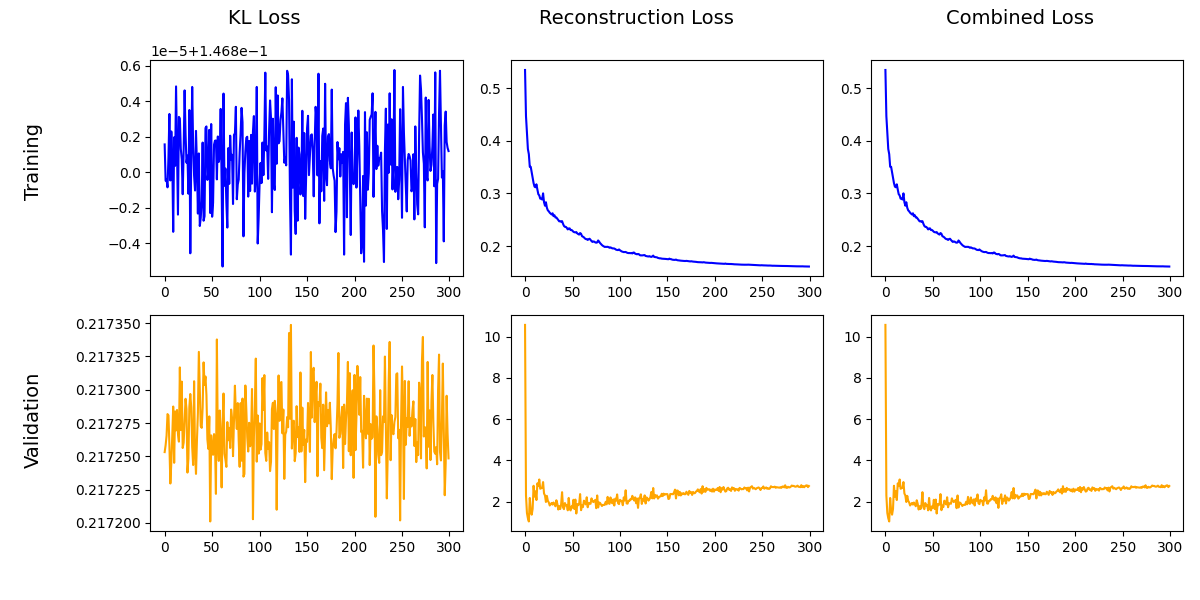
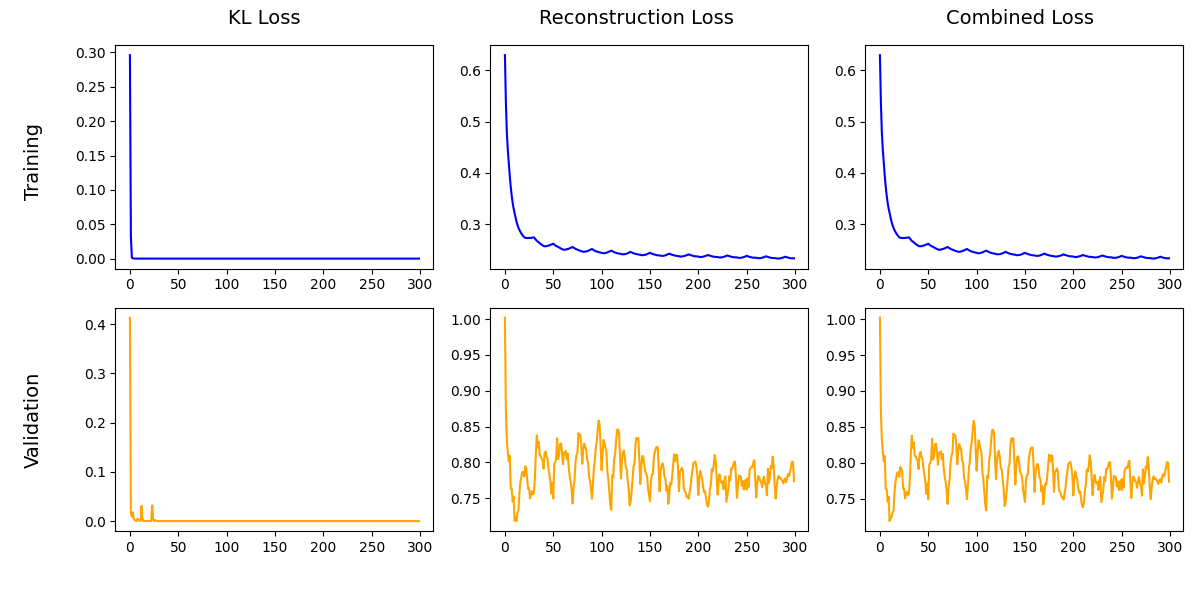
Fxing README image sizes and including data sugmentation by rotation on the pipeline.

diff --git a/models/prepare_data.py b/models/prepare_data.py
@@ -3,6 +3,38 @@ from glob import glob
 import numpy as np
 import torch
 
+# Defining rotation functions
+def rotation_matrix_x(angle):
+    c, s = np.cos(angle), np.sin(angle)
+    
+    return np.array([[1, 0, 0],
+                     [0, c, -s],
+                     [0, s, c]])
+
+def rotation_matrix_y(angle):
+    c, s = np.cos(angle), np.sin(angle)
+    
+    return np.array([[c, 0, s],
+                     [0, 1, 0],
+                     [-s, 0, c]])
+
+def rotation_matrix_z(angle):
+    c, s = np.cos(angle), np.sin(angle)
+    
+    return np.array([[c, -s, 0],
+                     [s, c, 0],
+                     [0, 0, 1]])
+
+def rotate_points(points, angle_x, angle_y, angle_z):
+    Rx = rotation_matrix_x(angle_x)
+    Ry = rotation_matrix_y(angle_y)
+    Rz = rotation_matrix_z(angle_z)
+    
+    rotation_matrix = Rz @ Ry @ Rx
+    rotated_points = points @ rotation_matrix.T
+    
+    return rotated_points
+
 def load_data(seq_len):
     print('######## Array Information Coming From Original Videos ########')
 
@@ -42,25 +74,52 @@ def load_data(seq_len):
 
     print(f'######## Total Number of Edges: {len(edge_index_t)} ########\n')
 
+    # Augmenting poses by adding random rotations
+    rand_rot_num = 4
+    joint_poses_augmented = [joint_poses]
+    for r in range(rand_rot_num):
+        joint_poses_rot = []
+        
+        angle_x = 2*np.random.rand(1)[0]*np.pi
+        angle_y = 2*np.random.rand(1)[0]*np.pi
+        angle_z = 2*np.random.rand(1)[0]*np.pi
+        
+        for choreo in joint_poses:
+            choreo_aux = []
+            
+            for frame in choreo:
+                rotated_points = rotate_points(frame, angle_x, angle_y, angle_z)    
+                choreo_aux.append(rotated_points)
+                
+            joint_poses_rot.append(np.array(choreo_aux))
+
+        joint_poses_augmented.append(joint_poses_rot)
+
     batches = []
     choreo_lens = []
 
     # Building non-overlapping sequences
-    # for choreo in joint_poses:
-    #     choreo = torch.Tensor(choreo)
-
-    #     num_seqs = choreo.shape[0] // seq_len
-    #     batches.append(torch.stack([choreo[i*seq_len:(i+1)*seq_len] for i in range(num_seqs)]))
-    #     choreo_lens.append(batches[-1].size(0))
+    # for joint_poses_rot in joint_poses_augmented:
+    #     for choreo in joint_poses_rot:
+    #         choreo = torch.Tensor(choreo)
+        
+    #         num_seqs = choreo.shape[0] // seq_len
+    #         batches.append(torch.stack([choreo[i*seq_len:(i+1)*seq_len] for i in range(num_seqs)]))
+    #         choreo_lens.append(batches[-1].size(0))
 
     # Building overlapping sequences
-    for choreo in joint_poses:
-        choreo = torch.Tensor(choreo)
-
-        batches.append(torch.stack([choreo[i:i+seq_len] for i in range(len(choreo)-seq_len)]))
-        choreo_lens.append(batches[-1].size(0))
+    for joint_poses_rot in joint_poses_augmented:
+        for choreo in joint_poses_rot:
+            choreo = torch.Tensor(choreo)
+        
+            batches.append(torch.stack([choreo[i:i+seq_len] for i in range(len(choreo)-seq_len)]))
+            choreo_lens.append(batches[-1].size(0))
 
     batches = torch.cat(batches, dim=0)
+
+    # Fixing x, y, z configuration
+    batches = batches[:, :, :, [2, 0, 1]]
+    batches[:, :, :, 2] = -batches[:, :, :, 2]
 
     # Balanced training-validation split
     train_split = []

diff --git a/models/train_nri.py b/models/train_nri.py
@@ -57,8 +57,8 @@ def model_iteration(model, optimizer, scheduler, batches, batches_cumsum, beta, 
         elif recon_mode == 'mse':
             recon_coef = 1
             
-        # loss = beta*0.01*kl_loss + recon_coef*recon_loss
-        loss = recon_coef*recon_loss
+        loss = beta*0.01*kl_loss + recon_coef*recon_loss
+        # loss = recon_coef*recon_loss
 
         if mode == 'train':
             loss.backward()
@@ -91,7 +91,8 @@ def model_iteration(model, optimizer, scheduler, batches, batches_cumsum, beta, 
             torch.save(model.state_dict(), save_path)
             tqdm.write(f'Epoch: {epoch + 1:04d}, Saving best parameters!')
 
-    del var_tensor
+    if recon_mode == 'nll':
+        del var_tensor
     torch.cuda.empty_cache()
 
     return kl_aux, recon_aux, loss_aux
@@ -182,7 +183,9 @@ if args.param_count:
             print('Layer {} has {} trainbale parameters'.format(n, p.numel()))
 
 optimizer = optim.Adam(model.parameters(), lr=lr)
+#scheduler = lr_scheduler.StepLR(optimizer, step_size=args.lr_cycle, gamma=args.gamma)
 scheduler = lr_scheduler.CyclicLR(optimizer, base_lr=lr/5, max_lr=lr, step_size_up=lr_cycle, mode='triangular', cycle_momentum=False)
+
 
 # Initializing lists to save losses across iterations
 kl_train = []

diff --git a/models/README.md b/models/README.md
@@ -15,7 +15,7 @@ Refer to the [installation document](https://github.com/Luizerko/ai_choreo/blob/
 The next step in the project involves loading the dance data for AI modeling. First, the preprocessed data is read in an interleaved manner to separately extract data from both dancers. Adjacencies are then created by initializing a default skeleton with 29 joints for each dancer and connecting every joint of one dancer to all joints of the other.
 
 <div align="center">
-    <img src="https://github.com/Luizerko/ai_choreo/blob/master/models/assets/skeleton_and_connections.png", width="450">
+    <img src="https://github.com/Luizerko/ai_choreo/blob/master/models/assets/skeleton_and_connections.png", width="550">
 </div>
 <div align='center'>
     <span>Plot of the two dancers with only their skeletons (left) and fully connected to their partner (right).</span>
@@ -37,7 +37,7 @@ Since a target graph structure correctly identifying which joints are virtually 
 The model consists of an encoder and a decoder, both playing around with transforming node representations into edge representations and vice versa. This approach emphasizes the dynamics of movements rather than fixed node embeddings. Not only that, but the encoder specifically outputs edges, sampling these from the generated latent space, making it essential to switch between representations.
 
 <div align="center">
-    <img src="https://github.com/Luizerko/ai_choreo/blob/master/models/assets/final_arch.png", width="550">
+    <img src="https://github.com/Luizerko/ai_choreo/blob/master/models/assets/final_arch.png", width="650">
 </div>
 <div align="center">
     <span>Image adapted from the <a href='https://arxiv.org/abs/1802.04687'>original NRI paper</a> showing a schematic overview of the final model architecture, including the GCN nodes and the sequence-to-sequence adapatation.</span>
